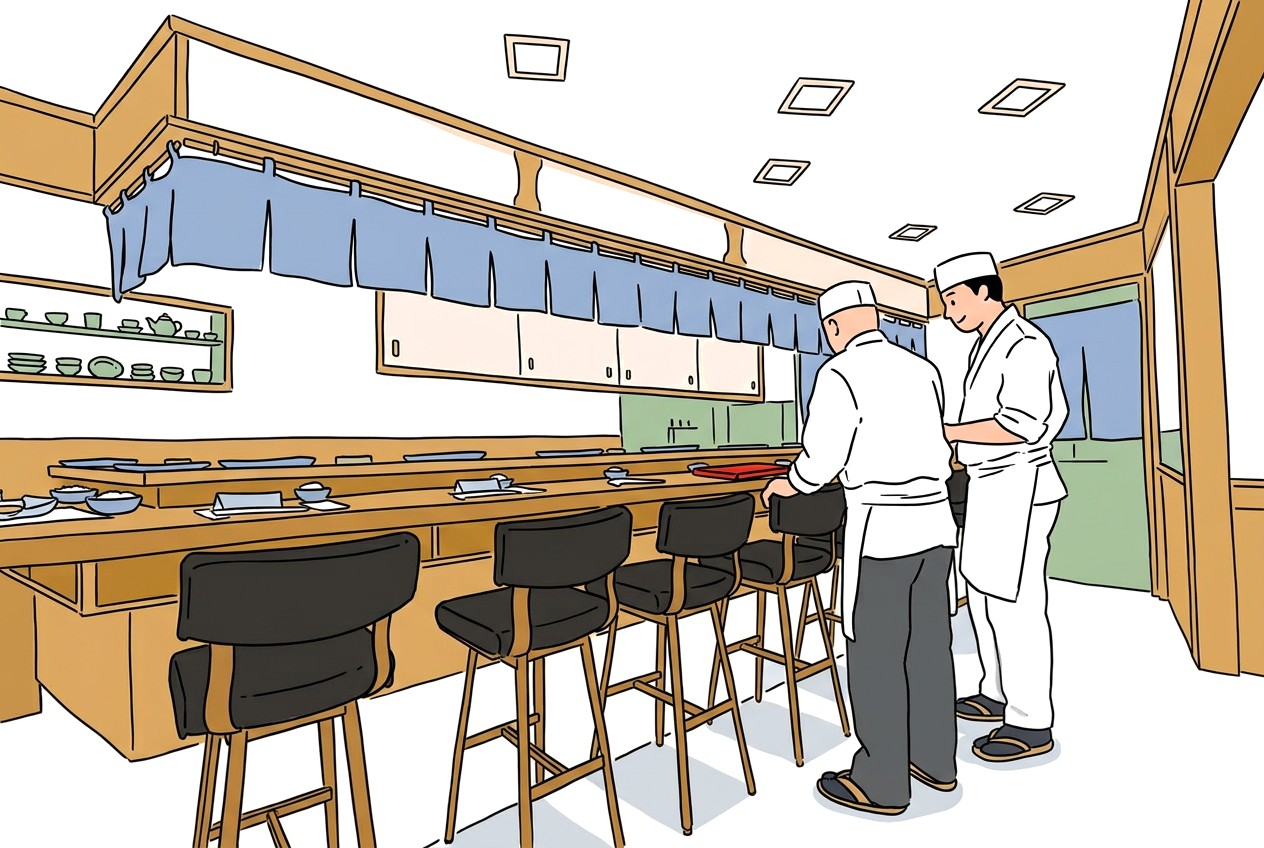
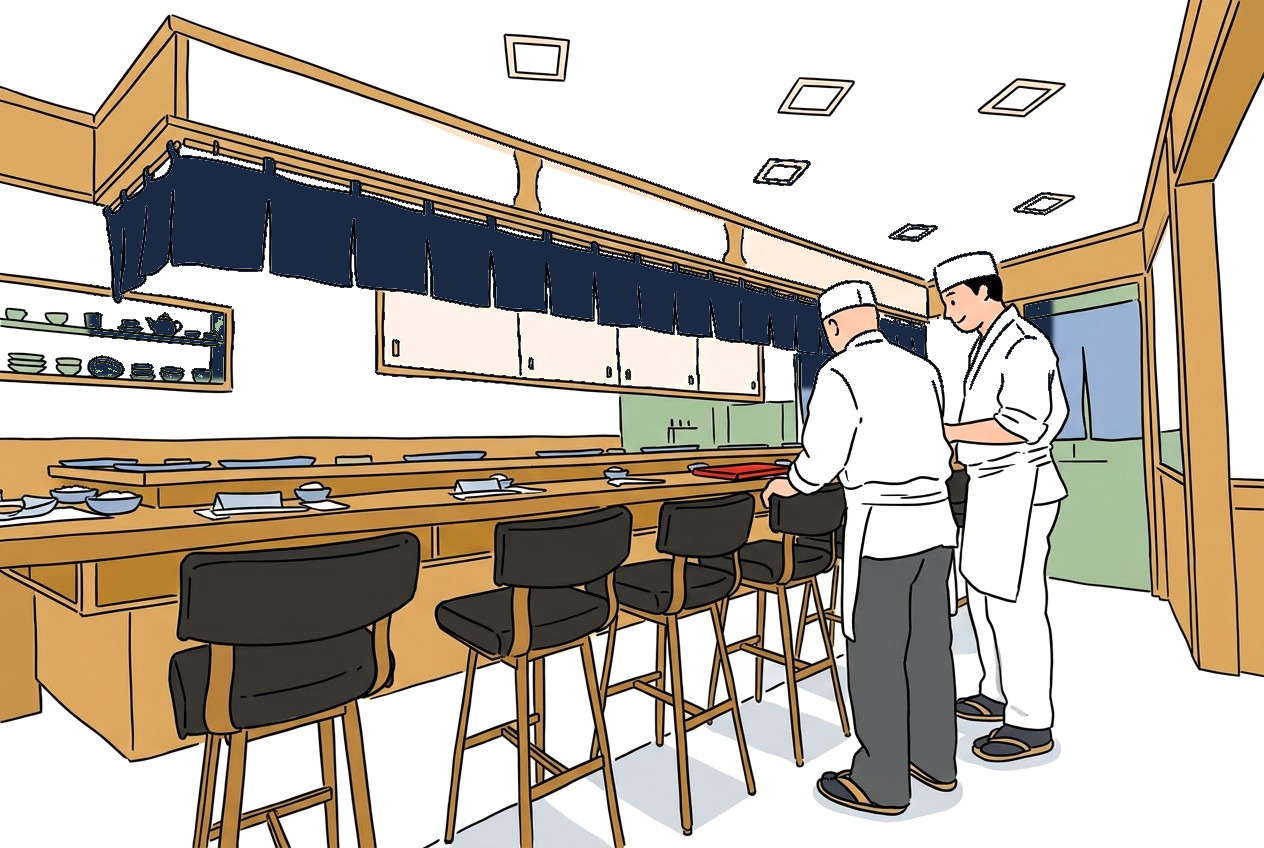
Take the Jiro noren to dark navy and bring the brief up to date
The noren was the one pale blue element left in a room drawn in timber and
ink; the recolor is masked to the noren band so nothing else moves. The
case-card rows in illustration-prompts.md now describe the six cards that
were redrawn rather than the older concepts.

diff --git a/presentation/build/illustration-prompts.md b/presentation/build/illustration-prompts.md
@@ -46,18 +46,18 @@ blank or carry ruled lines only.
 | `m08-venture.png` | `illo-m08-venture.jpg` | 1264 × 843 | Three people at a long pale table: one standing and pointing at an unrolled blank technical sheet, two seated with a cup and folded hands; in the centre a white cut-card model of a bar counter with two stools and a thin screen, a rolled plan, a tray of three cups, an upright blank tablet, three blank panels above | the flag on the model |
 | `m09-found.png` | `illo-m09-found.jpg` | 1264 × 843 | Found objects archived like a museum sheet on a white bench: a pale wooden crate, a floral plate standing on edge, a brass bell, a green bottle with a candle stub, a folded linen napkin and a stoneware cup, each with a blank paper tag on a thread and hairline connectors | a tiny berry beside the bell |
 | `m10-mockup.png` | `illo-m10-mockup.jpg` | 1264 × 843 | A designer's bench: a person in a hoodie placing the last wall panel onto a cut-card model of a bar on a slim round turntable; a cutting mat with a plain ruler, a scalpel, a steel rule, a glue stick, a blank tablet with an empty plan outline, a clip-on task light and a plant — every surface blank, no lettering | the tiny pendant lamp in the model |
-| `case-benfiddich-kayama.png` | `illo-case-benfiddich-kayama.jpg` | 1264 × 848 | Hanging herbs, botanical jars and shelves, a mortar and a hand pouring a green drink into a glass | one small bottle cap |
+| `case-benfiddich-kayama.png` | `illo-case-benfiddich-kayama.jpg` | 1264 × 848 | The barkeep at work behind a dark mahogany counter: white jacket over a white shirt with a dark red tie, a red serving mat carrying a glass mixing glass, glass jars of dried botanicals and two small bowls along the counter; dark timber shelving full of amber bottles on both sides, a framed painting and a bundle of dried herbs behind him | the red tie and mat | one small bottle cap |
 | `case-black-swan-bobkov.png` | `illo-case-black-swan-bobkov.jpg` | 1264 × 848 | Ornate door at left, framed art, an armchair, beer taps and a table with a teapot and candelabrum | the armchair cushion |
 | `case-shapes-savage.png` | `illo-case-shapes-savage.jpg` | 1264 × 848 | The room from the source photograph: black steel bottle shelving standing on a green laminate table, bottles carrying colour-coded bands; a framed poster with a blue circle and a yellow triangle standing on the table; two red stools on the floor in front; the rust-brown wall panel at the right | the two red stools |
-| `case-sips-caporale.png` | `illo-case-sips-caporale.jpg` | 1264 × 848 | Bartender shaking a drink inside an open round counter, guests’ hands and sculptural cocktail vessels | one cocktail garnish |
+| `case-sips-caporale.png` | `illo-case-sips-caporale.jpg` | 1264 × 848 | The room from the photograph: a black ceiling band over bottle-green walls, two long lit back-bar shelves of bottles with an espresso machine beneath them, the black island bar with a pale stone top standing in the middle of the room, two green-seated stools with gold legs in front of it, a tall street window with trees at the right, dark plank floor | the red light on the espresso machine | one cocktail garnish |
 | `case-el-copitas-zernov.png` | `illo-case-el-copitas-zernov.jpg` | 1264 × 848 | Courtyard with central arched doorway and curtain, paper bunting, potted plants, clay cups and cactus | one bunting flag |
-| `case-city-space-narzi.png` | `illo-case-city-space-narzi.jpg` | 1264 × 848 | Top-down L-shaped bar plan with stools, ice well, workflow arrows, bar tools and a stopwatch | a stopwatch button |
+| `case-city-space-narzi.png` | `illo-case-city-space-narzi.jpg` | 1264 × 848 | The lounge from the photograph: the curved wall of slanted glazing over a deep blue night band, the red ceiling sweep, the magenta-and-blue striped floor, brown armchairs with cream cushions and round tables carrying a candle and a coupe, the long bar with tall stools and a bartender at work, the slim gold guardrail passing in front of the chairs | the nearest candle | a stopwatch button |
 | `case-sensory-talalay.png` | `illo-case-sensory-talalay.jpg` | 1264 × 848 | The source photograph's board: a thick wooden serving board with a carved rim on a low foot, its rim traced by one thin pale-cyan neon line; a tall tumbler of iced water with a straw standing on it, a dark canapé at the left and a leaf-wrapped canapé at the right; one smaller paler board behind, both on the same surface | the red band at the top of the straw |
-| `case-jiro-ono.png` | `illo-case-jiro-ono.jpg` | 1264 × 848 | Diagonal sushi counter with one nigiri, rice tub, bamboo mats, knife, dipping dish and brush | the fish on the nigiri |
-| `case-krasota-zarkov.png` | `illo-case-krasota-zarkov.jpg` | 1264 × 848 | The circular projection table of Krasota seen from a raised angle: seascape and shoreline spread across the tabletop, a burning ship, a black central void, plates and glasses, the ring of guests, the curved screen of sea and blossom, two waiters standing at the far edge | the cushion beside the right-hand guest |
+| `case-jiro-ono.png` | `illo-case-jiro-ono.jpg` | 1264 × 848 | The room from the photograph: the long counter running diagonally under a hanging beam, dark navy noren panels across it, a shelf of bowls and a wall cabinet behind, the two chefs in white on the far side, leather-topped stools along the near side, the ceiling of square light fittings | the tray on the counter | the fish on the nigiri |
+| `case-krasota-zarkov.png` | `illo-case-krasota-zarkov.jpg` | 1264 × 848 | The circular projection table seen from a raised angle: a dark seascape with a pale shoreline spread over the tabletop, a solid black void at its centre, plates, glasses and cutlery round the rim, the ring of guests seen from behind, the curved screen of sea and blossom behind them, two waiters in pale outline at the far edge | the cushion beside the right-hand guest | the cushion beside the right-hand guest |
 | `case-dave-arnold.png` | `illo-case-dave-arnold.jpg` | 1264 × 848 | The bartender in a charcoal sweater over a checked collar, pouring from a raised shaker tin through a julep strainer into a coupe held low in the other hand, a thin stream joining the two, one curl of vapour rising off the glass; a counter with a real front edge carrying a jigger, a fine strainer, two stacked coupes and a mixing pitcher, each group with one flat shadow | the ring on his finger |
 | `case-rene-redzepi.png` | `illo-case-rene-redzepi.jpg` | 1264 × 848 | The chef laughing with both hands on his hips, navy tee and grey canvas apron, herbs rising from the chest pocket, warm wall panel and a shelf of plain bowls behind him | the apron tie |
-| `case-alex-kratena.png` | `illo-case-alex-kratena.jpg` | 1264 × 848 | The bar owner in a black cap, clear glasses and a black utility gilet over a grey tee, phone in hand, tattooed left forearm, the second figure drawn in pale outline behind him, a sage-green bar front with a wooden top at the left | the stirrer standing in the glass on the counter |
+| `case-alex-kratena.png` | `illo-case-alex-kratena.jpg` | 1264 × 848 | The owner in a black cap with a thin red brim, clear glasses and a short beard, a black utility gilet over a grey tee, a phone in his right hand, a dense ornamental tattoo over his right forearm, the second man in a black beanie drawn in pale outline behind him, a plain warm-grey wall and one doorway outline | the red brim of the cap | the stirrer standing in the glass on the counter |
 
 ## Redraw pass — October 2026
 
@@ -65,11 +65,19 @@ The case-card rows above were brought back in line with the published files. Thr
 portraits were redrawn from their photographs because the resemblance had stopped being obvious; the
 review that produced the list, and the reasons for each call, are in `illustration-audit.md`.
 
-Redrawn: `illo-case-sensory-talalay.jpg` (the board, the iced glass and the lit rim of the
-photograph, instead of an invented pipette still life), `illo-case-shapes-savage.jpg` (the green
-table, colour-coded bottle shelf and red stools of the room), `illo-case-dave-arnold.jpg` (a real
-pour joined by a stream, a counter with an edge), `illo-figure-zarkov.jpg` and
-`illo-figure-talalay.jpg` (both were drawn as different men in different rooms than their sources).
+Redrawn from the photograph: `illo-case-sensory-talalay.jpg` (the board, the iced glass and the lit
+rim, instead of an invented pipette still life), `illo-case-shapes-savage.jpg` (the green table,
+colour-coded bottle shelf and red stools), `illo-case-dave-arnold.jpg` (a real pour joined by a
+stream, a counter with an edge), `illo-figure-zarkov.jpg` and `illo-figure-talalay.jpg` (both were
+drawn as different men in different rooms than their sources).
+
+Second pass, same rule: `illo-case-benfiddich-kayama.jpg` (white jacket, red tie, mahogany counter,
+amber bottles), `illo-case-sips-caporale.jpg` (black ceiling, green walls, black island, espresso
+machine), `illo-case-city-space-narzi.jpg` (red ceiling, magenta-and-blue floor, blue night band),
+`illo-case-krasota-zarkov.jpg` (the dark projection and its black centre, no fire on the table),
+`illo-case-alex-kratena.jpg` (ornamental sleeve with no lettering in it, phone in the right hand)
+and `illo-case-jiro-ono.jpg`, which keeps its drawing and only takes the noren from pale blue to
+dark navy.
 
 When redrawing from a photograph, keep the four anchors the reader uses to recognise a place: the
 room's palette, the counter material, the signature object and the subject's garment. Then check the
